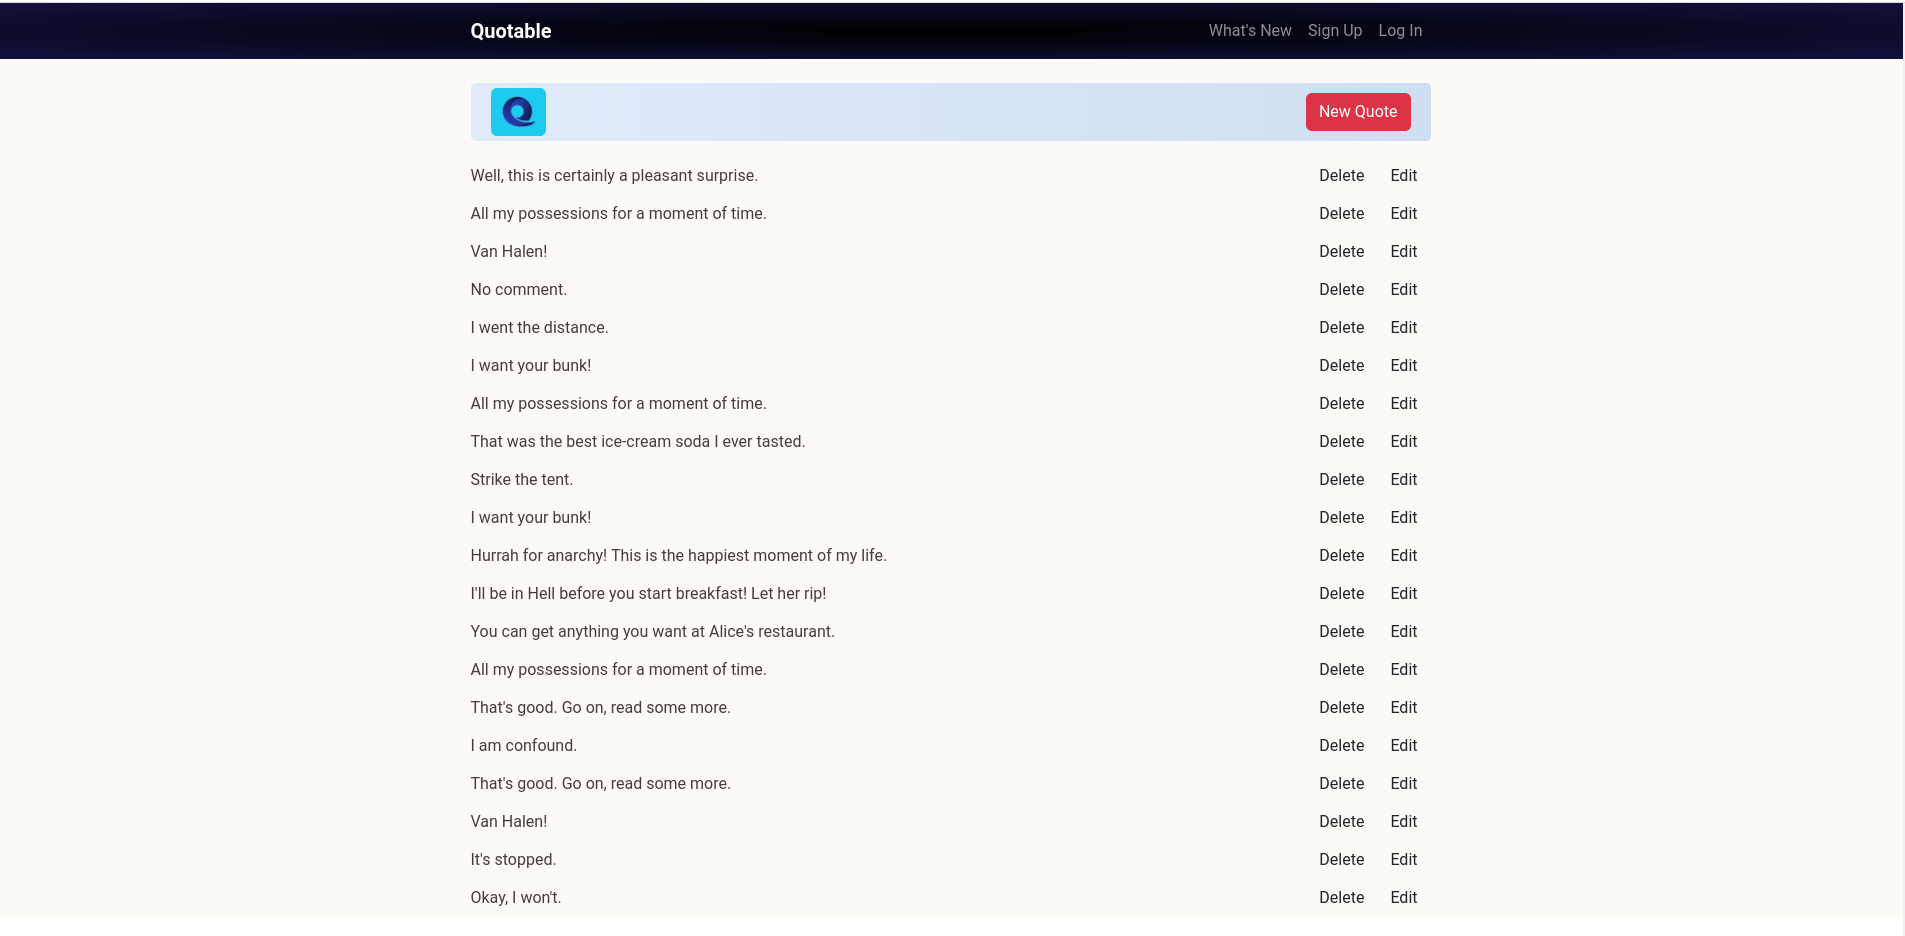
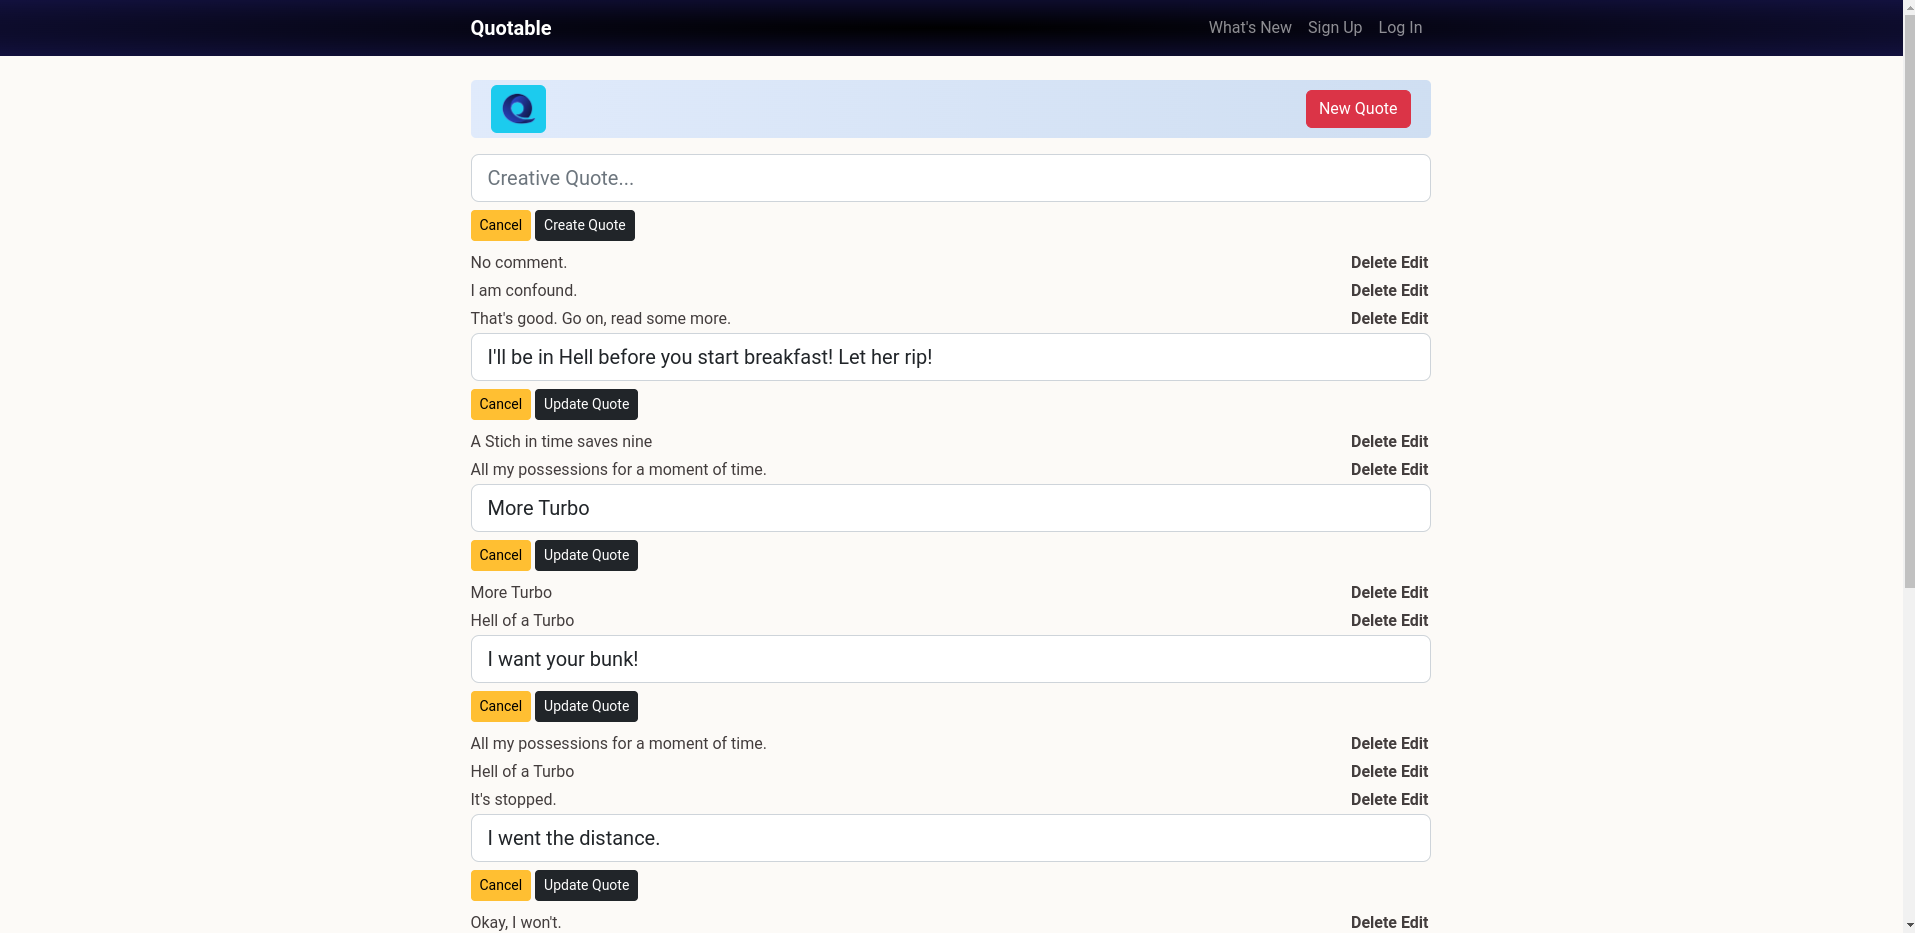
edit, new, ordering, state

diff --git a/app/controllers/quotes_controller.rb b/app/controllers/quotes_controller.rb
@@ -2,7 +2,7 @@ class QuotesController < ApplicationController
     before_action :set_quote, only: [:show, :edit, :update, :destroy]
 
     def index 
-        @quotes = Quote.all
+        @quotes = Quote.ordered
     end 
 
     def edit 
@@ -15,12 +15,15 @@ class QuotesController < ApplicationController
     def create
 	    @quote = Quote.new(quote_params)
 
-	        if @quote.save
-		     redirect_to quotes_path, notice: "Quote was successfully created."
-	      else
-		     render :new, status: :unprocessable_entity
-	       end
-     end 
+	    if @quote.save
+	   	respond_to do |format|
+			format.html { redirect_to quotes_path, notice: "Quote was successfully created." }
+			format.turbo_stream
+		  end
+	    else
+	  	render :new, status: :unprocessable_entity
+    	end
+    end 
 
      def show 
      end

diff --git a/app/models/quote.rb b/app/models/quote.rb
@@ -9,4 +9,6 @@
 #
 class Quote < ApplicationRecord
     validates :name, presence: true
+
+    scope :ordered, -> { order(id: :desc) }
 end
